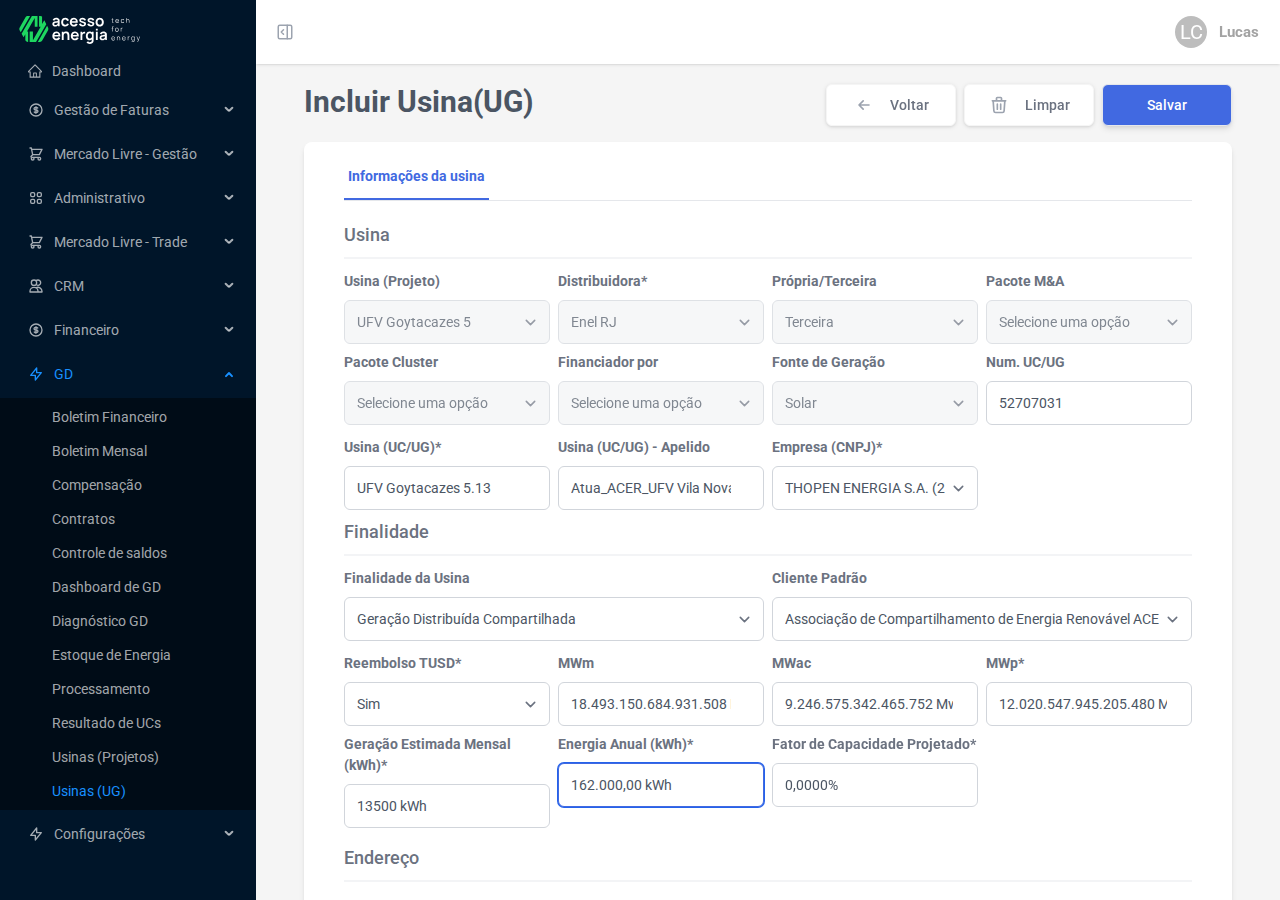
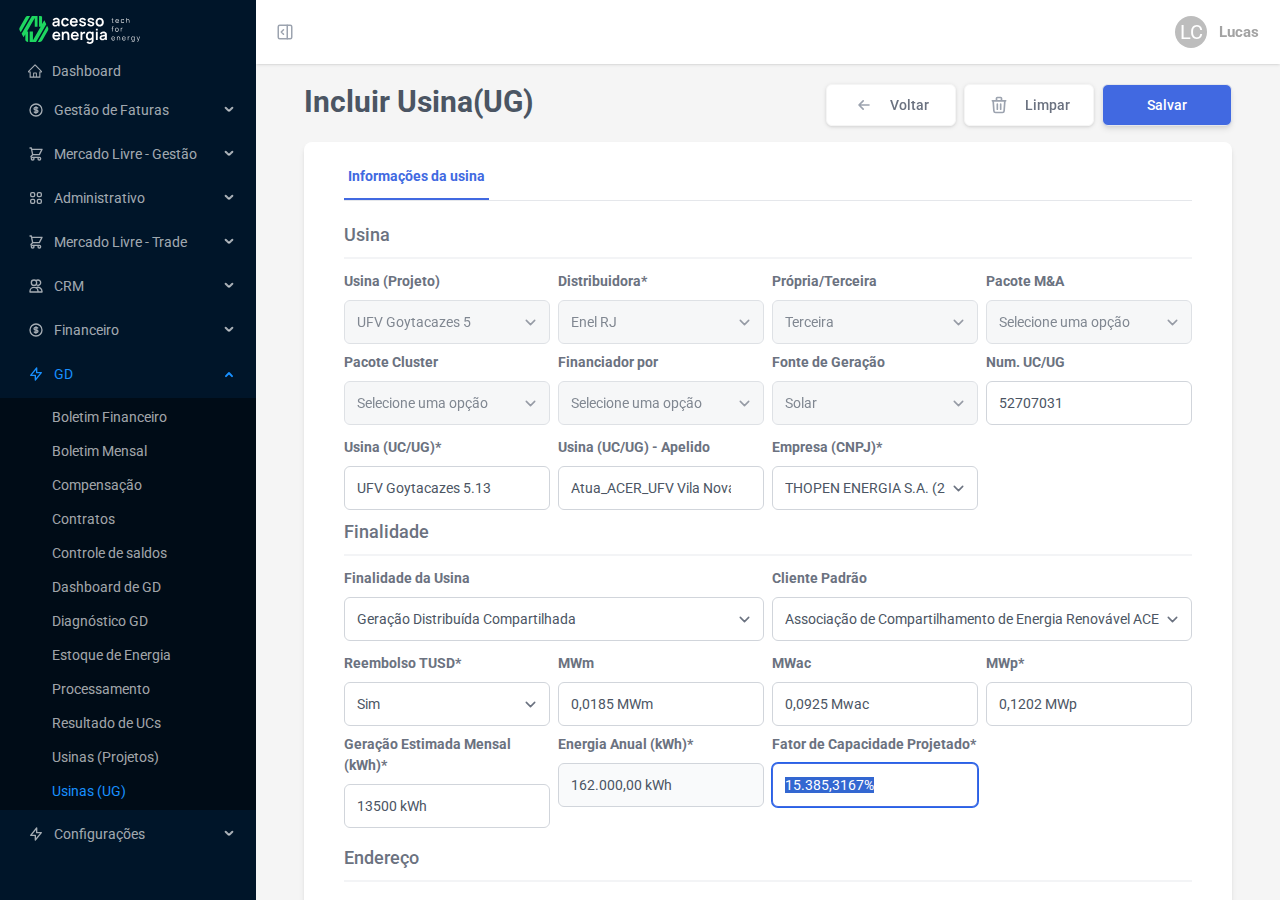
Corrige preenchimento de campos numéricos com máscara (MWm, MWac, MWp, kWh)
Os campos com máscara numérica precisam de digitação via teclado em vez
do setter React. Adiciona keyboard_fill() com arredondamento a 4 casas
decimais para evitar valores incorretos como 9,999,999,999,9999.

https://claude.ai/code/session_01USoMnFoiwEc4HVR9AN5KYN

Changed region(s): [[0.5938, 0.7778, 0.75, 0.9022], [0.7812, 0.7778, 0.9062, 0.8089], [0.4375, 0.7778, 0.5625, 0.8089]]

diff --git a/preencher_usinas.py b/preencher_usinas.py
@@ -157,7 +157,8 @@ def select_por_texto(page, name, texto, descricao=""):
 def react_fill(page, selector, valor, descricao=""):
     """
     Preenche input de formulário React usando o setter nativo + evento input.
-    Isso garante que o state do React seja atualizado.
+    Funciona para campos de texto simples (nomeUsina, unidadeGeradora, datas).
+    Para campos com máscara numérica use keyboard_fill.
     """
     if vazio(valor):
         return
@@ -183,6 +184,41 @@ def react_fill(page, selector, valor, descricao=""):
         }""",
         {"sel": selector, "val": valor_str},
     )
+    print(f"  ✓ {descricao}: {valor_str}")
+
+
+def keyboard_fill(page, selector, valor, descricao="", casas_decimais=4):
+    """
+    Preenche input com máscara numérica via teclado (simulação de digitação).
+    Necessário para campos como MWm, MWac, MWp, kWh que usam máscara.
+    Arredonda para casas_decimais casas decimais antes de digitar.
+    """
+    if vazio(valor):
+        return
+
+    # Arredonda o valor numérico para evitar casa decimais em excesso
+    try:
+        num = round(float(str(valor)), casas_decimais)
+        valor_str = f"{num:.{casas_decimais}f}".rstrip("0").rstrip(".")
+        if "." not in valor_str:
+            valor_str = valor_str  # inteiro, ok
+    except (ValueError, TypeError):
+        valor_str = str(valor).strip()
+
+    el = page.query_selector(selector)
+    if not el:
+        print(f"  ✗ {descricao}: campo não encontrado ({selector})")
+        return
+    if el.is_disabled():
+        return
+
+    el.click()
+    page.keyboard.press("Control+a")
+    page.keyboard.press("Delete")
+    page.wait_for_timeout(100)
+    page.keyboard.type(valor_str, delay=40)
+    page.keyboard.press("Tab")
+    page.wait_for_timeout(150)
     print(f"  ✓ {descricao}: {valor_str}")
 
 
@@ -315,9 +351,9 @@ def fill_form(page, row, screenshots_dir=None, num=0):
     for field_name, col in INPUTS_BY_NAME.items():
         react_fill(page, f"input[name='{field_name}']", row.get(col), col)
 
-    # 5. Inputs por placeholder
+    # 5. Inputs por placeholder (campos com máscara numérica — usar teclado)
     for placeholder, col in INPUTS_BY_PLACEHOLDER.items():
-        react_fill(page, f"input[placeholder='{placeholder}']", row.get(col), col)
+        keyboard_fill(page, f"input[placeholder='{placeholder}']", row.get(col), col)
 
     # 6. Datas
     for field_name, (col, fmt) in DATE_FIELDS.items():
